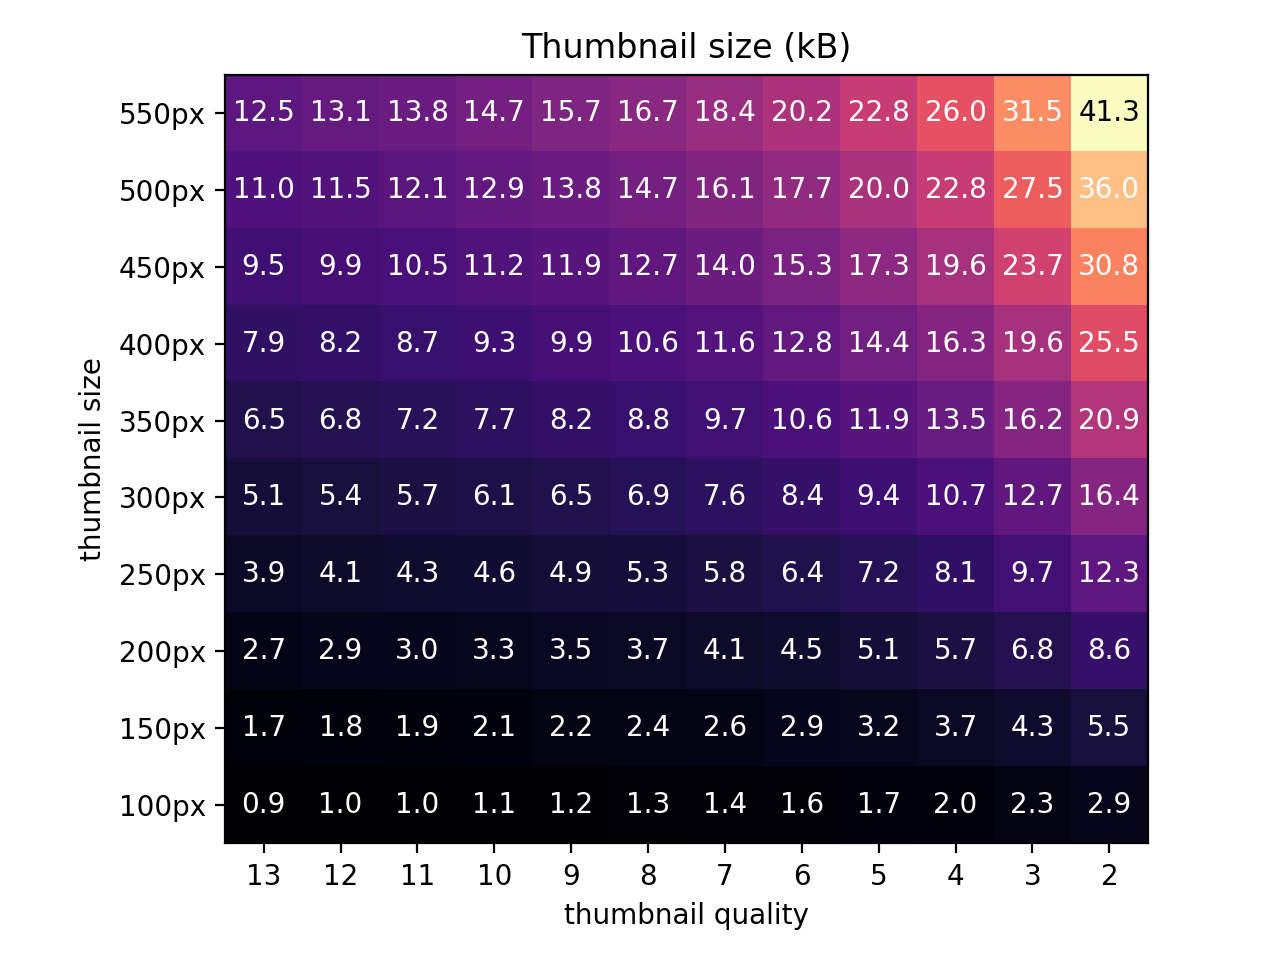
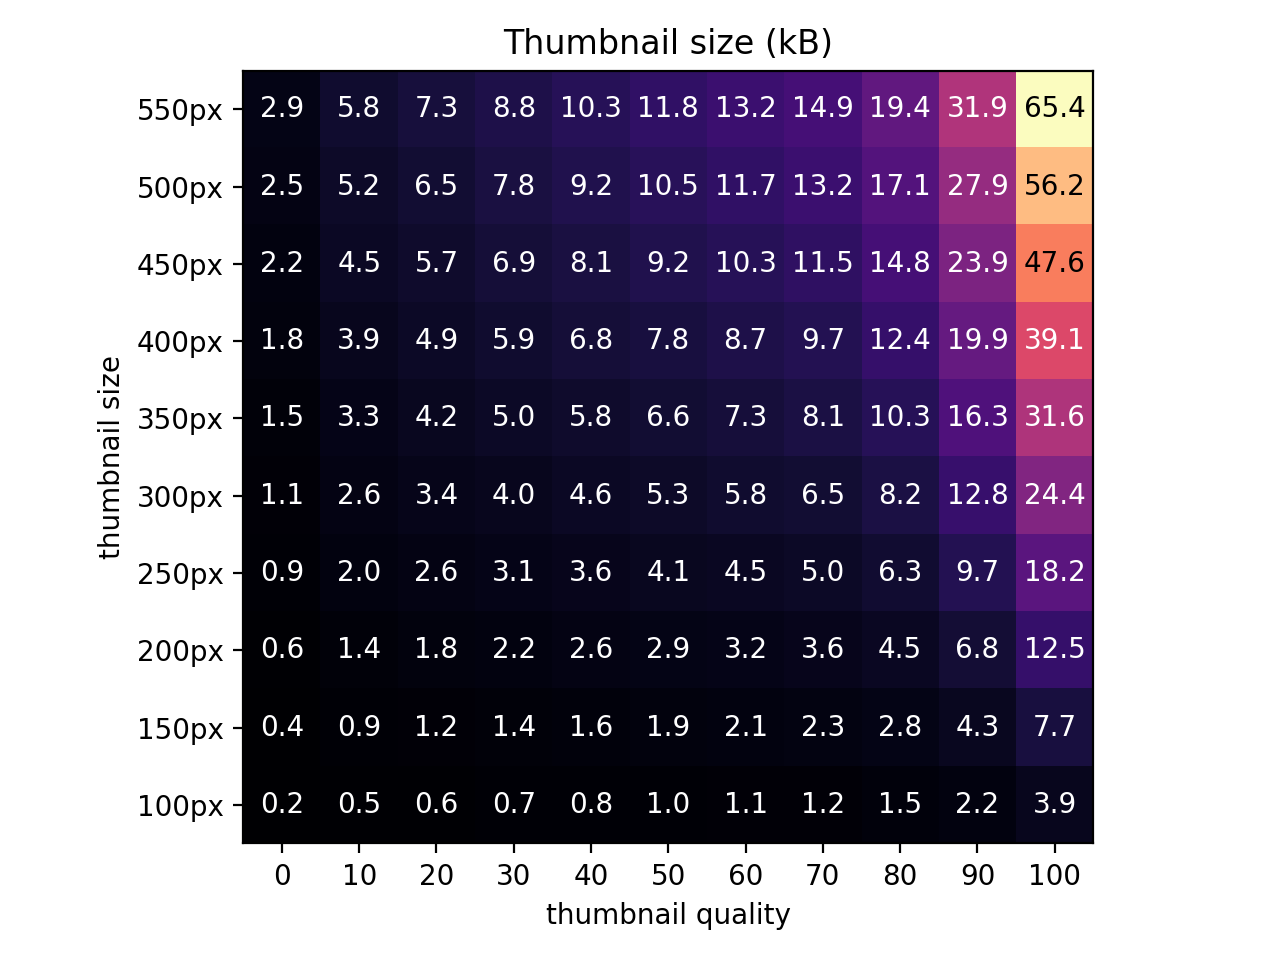
change encoding to webp

diff --git a/main.py b/main.py
@@ -8,7 +8,8 @@ from multiprocessing import Pool
 
 files = list(glob("examples/*.jpg"))
 SIZES = [550, 500, 450, 400, 350, 300, 250, 200, 150, 100]
-QUALITIES = [13, 12, 11, 10, 9, 8, 7, 6, 5, 4, 3, 2]
+# QUALITIES = [13, 12, 11, 10, 9, 8, 7, 6, 5, 4, 3, 2]
+QUALITIES = [0, 10, 20, 30, 40, 50, 60, 70, 80, 90, 100]
 
 params = {
     "file": files,
@@ -20,7 +21,7 @@ tasks = list(ParameterGrid(params))
 
 
 def do_task(param):
-    output_name = f"output/{os.path.basename(param['file'])}_{param['size']}_{param['quality']}.jpg"
+    output_name = f"output/{os.path.basename(param['file'])}_{param['size']}_{param['quality']}.webp"
     data_name = f"data/{os.path.basename(param['file'])}_{param['size']}_{param['quality']}.json"
     if os.path.exists(output_name):
         os.remove(output_name)
@@ -30,6 +31,7 @@ def do_task(param):
         "-vf", f"scale={param['size']}:-1",
         "-sws_flags", "lanczos",
         "-q:v", f"{param['quality']}",
+        "-compression_level", "6",
         "-hide_banner", "-loglevel", "error",
         output_name,
     ]

diff --git a/plot.py b/plot.py
@@ -4,7 +4,8 @@ from glob import glob
 import numpy as np
 
 SIZES = [550, 500, 450, 400, 350, 300, 250, 200, 150, 100]
-QUALITIES = [13, 12, 11, 10, 9, 8, 7, 6, 5, 4, 3, 2]
+# QUALITIES = [13, 12, 11, 10, 9, 8, 7, 6, 5, 4, 3, 2]
+QUALITIES = [0, 10, 20, 30, 40, 50, 60, 70, 80, 90, 100]
 
 mat = np.zeros((len(SIZES), len(QUALITIES)))
 
